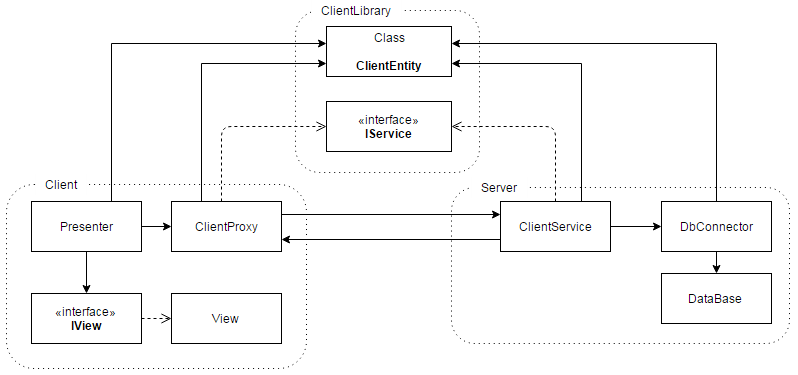
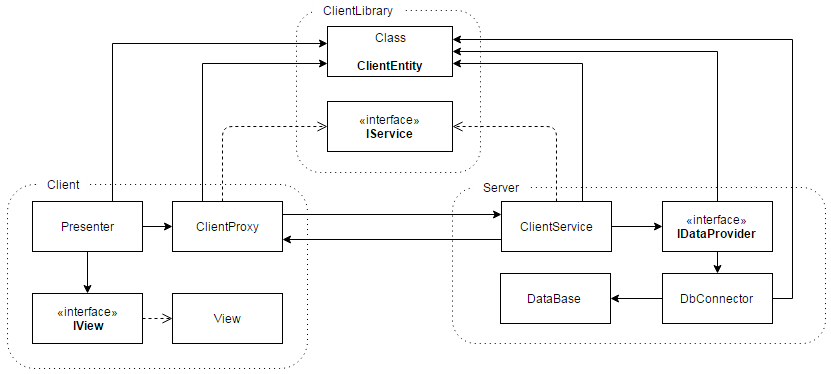
Fixed picture with current structure after IDataProvider implementation

diff --git a/README.md b/README.md
@@ -32,7 +32,7 @@
 
 - Нет пересылки ошибок от сервера клиенту. Нет обработки ошибок. 
 - Весь функционал на одной форме (View).
-- Избыточный функционал обработки сервиса не сервере. Сервер значет, что источник данных - БД, коннектор к БД знает о выдаваемом типе.
+- ~~Избыточный функционал обработки сервиса не сервере. Сервер значет, что источник данных - БД,~~ Kоннектор к БД всё ещё знает о выдаваемом типе.
 - Сильная связанность Presenter и ClientProxy.
 - Не написаны тесты.
 - Клиент не запустится, если нет соединения с сервером.
